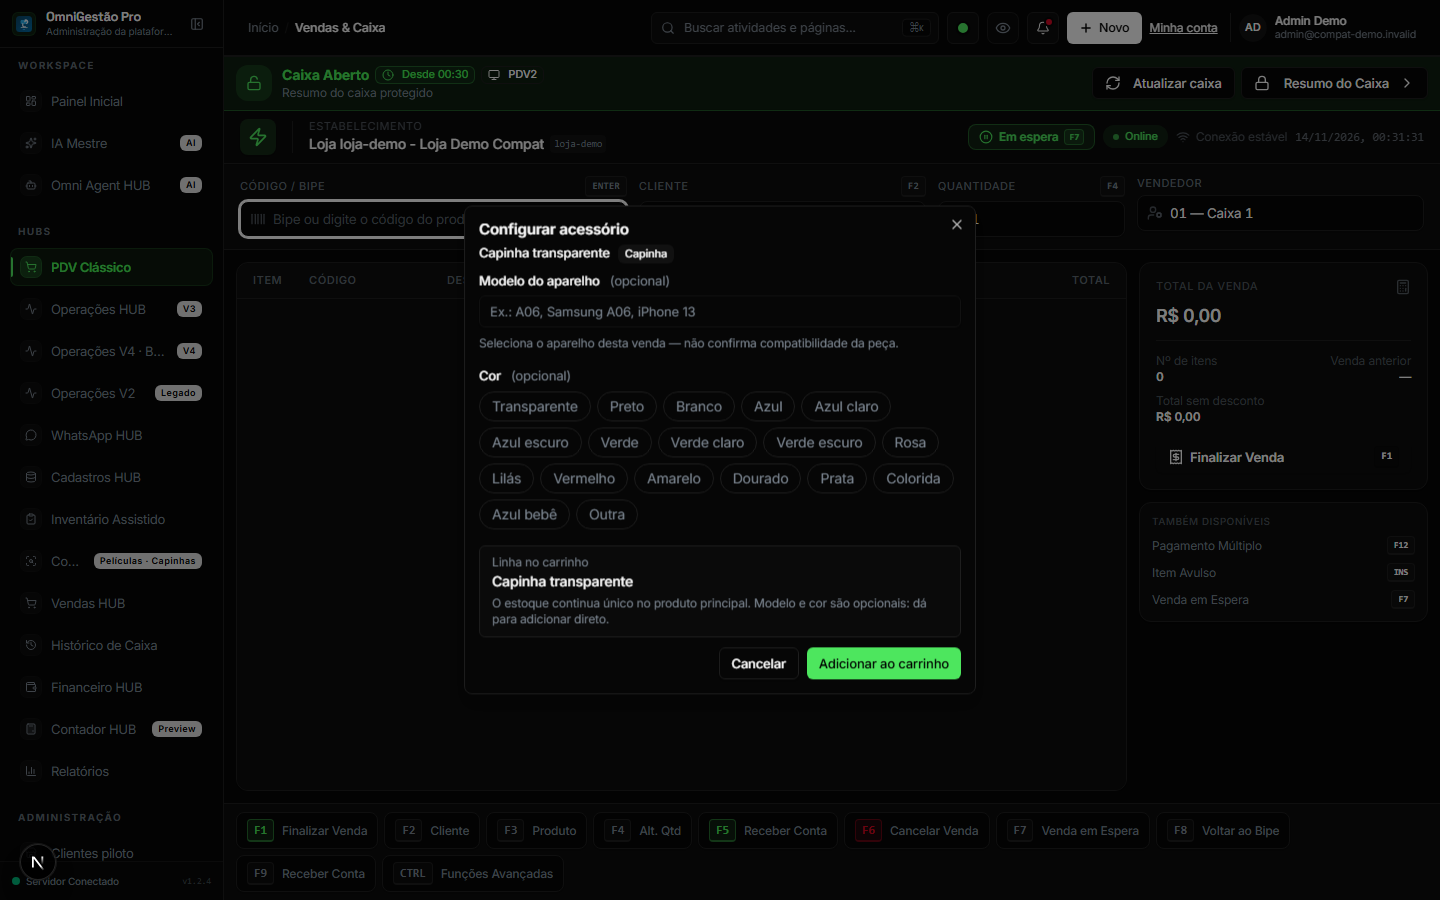
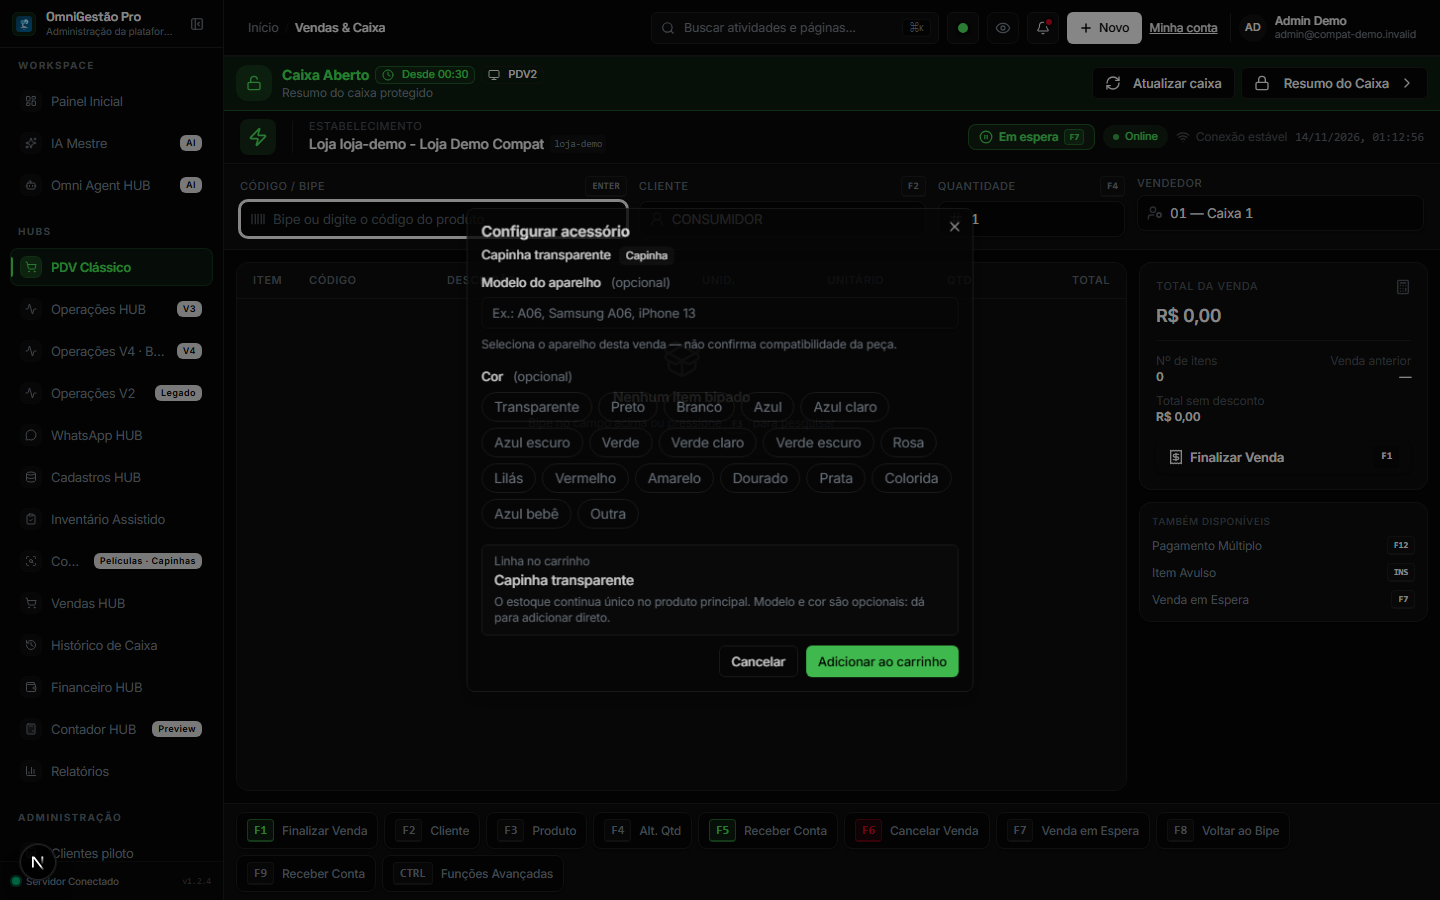
fix(compat): writer V2 encaminha o sinal de finalização ao guard de cor
O persistSaleV2 reconstruía as opções do upsert e descartava `finalizacaoAoVivo`; a
finalização online pelo V2 aceitaria cor desativada. Teste pelo caminho do writer.

diff --git a/lib/vendas/sale-writer-v2.compat-finalizacao.test.ts b/lib/vendas/sale-writer-v2.compat-finalizacao.test.ts
@@ -1,0 +1,42 @@
+/**
+ * COMPAT-PROFISSIONAL-001 — o writer V2 reconstrói as opções do upsert; o sinal de finalização
+ * ao vivo (guard de cor desativada) precisa chegar ao `upsertVendaInTransaction` (revisão Codex).
+ */
+import { beforeEach, describe, expect, it, vi } from "vitest"
+
+const h = vi.hoisted(() => ({ upsert: vi.fn(), opts: [] as unknown[] }))
+
+vi.mock("@/lib/prisma", () => ({
+  prisma: { $transaction: async (fn: (tx: unknown) => unknown) => fn({}) },
+}))
+vi.mock("@/lib/ops-upsert-venda", async (importOriginal) => {
+  const orig = await importOriginal<typeof import("@/lib/ops-upsert-venda")>()
+  return {
+    ...orig,
+    upsertVendaInTransaction: (...args: unknown[]) => {
+      h.opts.push(args[4])
+      return h.upsert(...args)
+    },
+  }
+})
+
+import { persistSaleV2 } from "./sale-writer-v2"
+
+const sale = { id: "PEND-1", total: 10, paymentBreakdown: { dinheiro: 10 }, lines: [] } as never
+
+beforeEach(() => {
+  h.opts = []
+  h.upsert.mockReset().mockResolvedValue({ replayed: false, venda: { id: "v1" } })
+})
+
+describe("persistSaleV2 — sinal de finalização ao vivo", () => {
+  it("encaminha finalizacaoAoVivo quando a rota recebe tentativa=finalize", async () => {
+    await persistSaleV2({ storeId: "loja-a", sale, clientSaleId: "cs_aaaaaaaaaaaa", options: { finalizacaoAoVivo: true } })
+    expect(h.opts[0]).toMatchObject({ finalizacaoAoVivo: true, enforceStock: true })
+  })
+
+  it("reenvio (sem o sinal) não liga o guard", async () => {
+    await persistSaleV2({ storeId: "loja-a", sale, clientSaleId: "cs_aaaaaaaaaaaa", options: { enforceStock: true } })
+    expect(h.opts[0]).not.toHaveProperty("finalizacaoAoVivo")
+  })
+})

diff --git a/lib/vendas/sale-writer-v2.ts b/lib/vendas/sale-writer-v2.ts
@@ -72,6 +72,8 @@ export async function persistSaleV2(input: PersistSaleV2Input): Promise<UpsertVe
     requireCaixaSession: options?.requireCaixaSession ?? true,
     allowClosedOriginalSession: options?.allowClosedOriginalSession === true,
     ...(options?.historicalRecovery === true ? { historicalRecovery: true } : {}),
+    // COMPAT-PROFISSIONAL-001: sinal de finalização ao vivo (guard de cor desativada).
+    ...(options?.finalizacaoAoVivo === true ? { finalizacaoAoVivo: true } : {}),
     v2: {
       clientSaleId,
       allocate: (tx) => allocateSaleNumberForWriter(tx, storeId),
